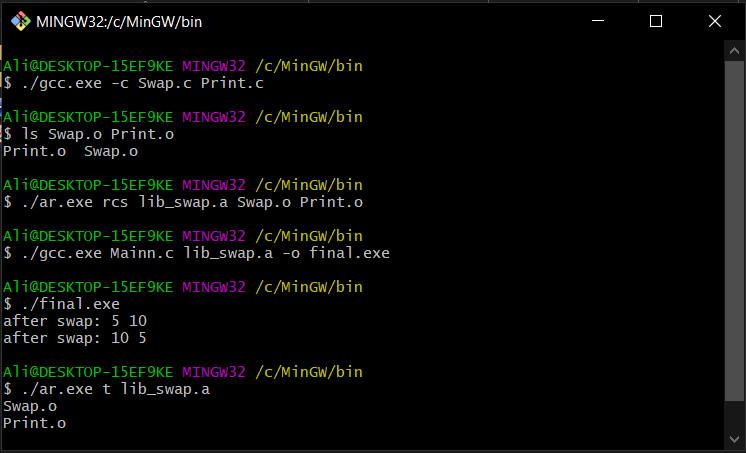
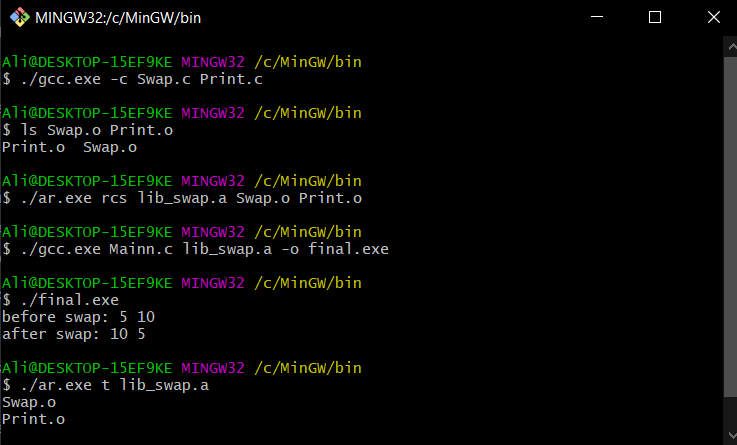
lecture 1

diff --git a/Unit 3- Embedded C/Lecture 1 assignment/Static Library for swapping numbers/Mainn.c b/Unit 3- Embedded C/Lecture 1 assignment/Static Library for swapping numbers/Mainn.c
@@ -1,7 +1,7 @@
 #include "platformtypes.h"
 
 void swap(int* a, int* b);
-void print(int* a, int* b);
+void print(int* a, int* b, int c);
 
 int main()
 {
@@ -9,9 +9,9 @@ int main()
 	int* ptra = &aa, *ptrb = &bb;
 
 
-	print(ptra, ptrb);
+	print(ptra, ptrb, 1);
 	swap(ptra, ptrb);
-	print(ptra, ptrb);
+	print(ptra, ptrb, 0);
 
 
 }
